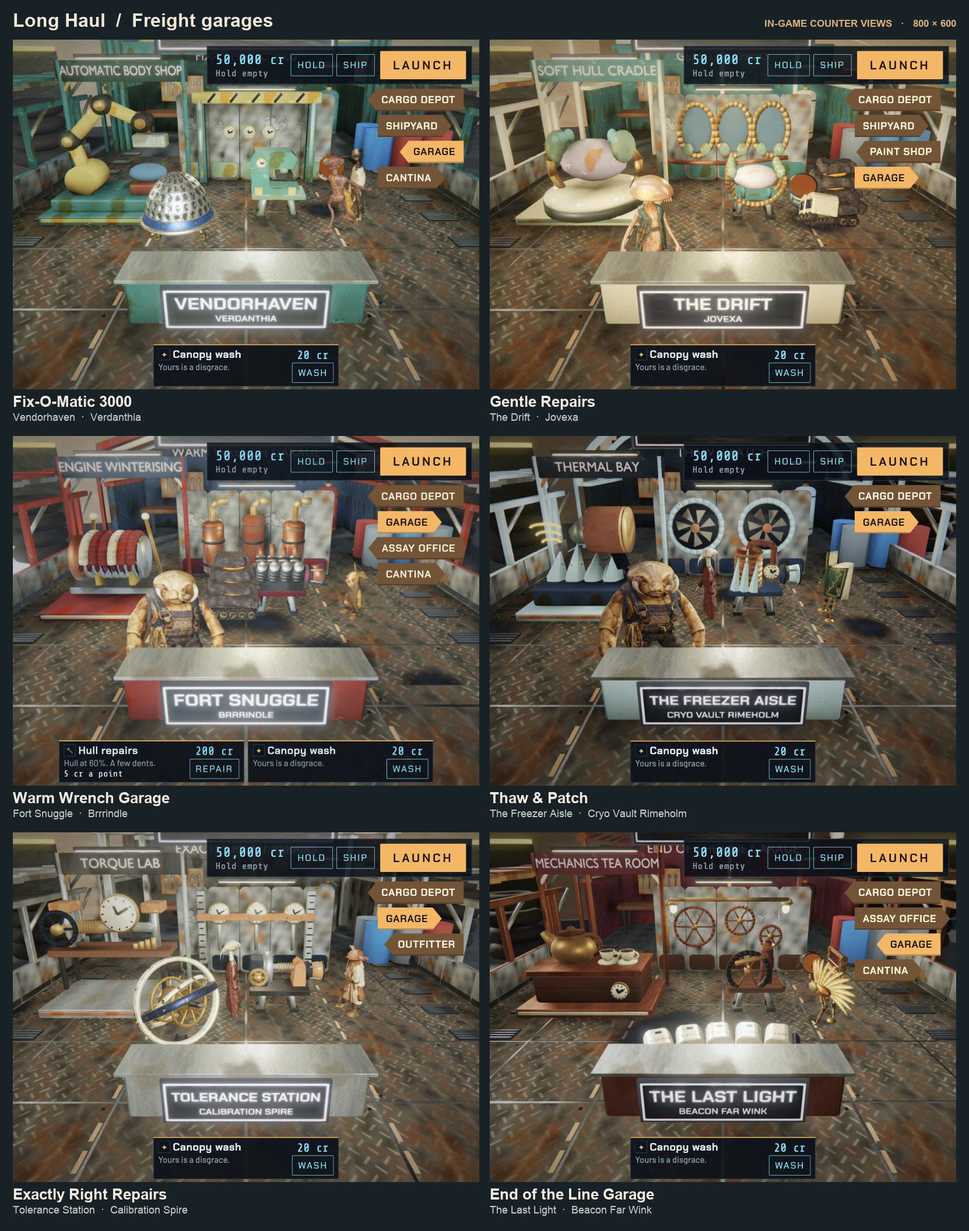
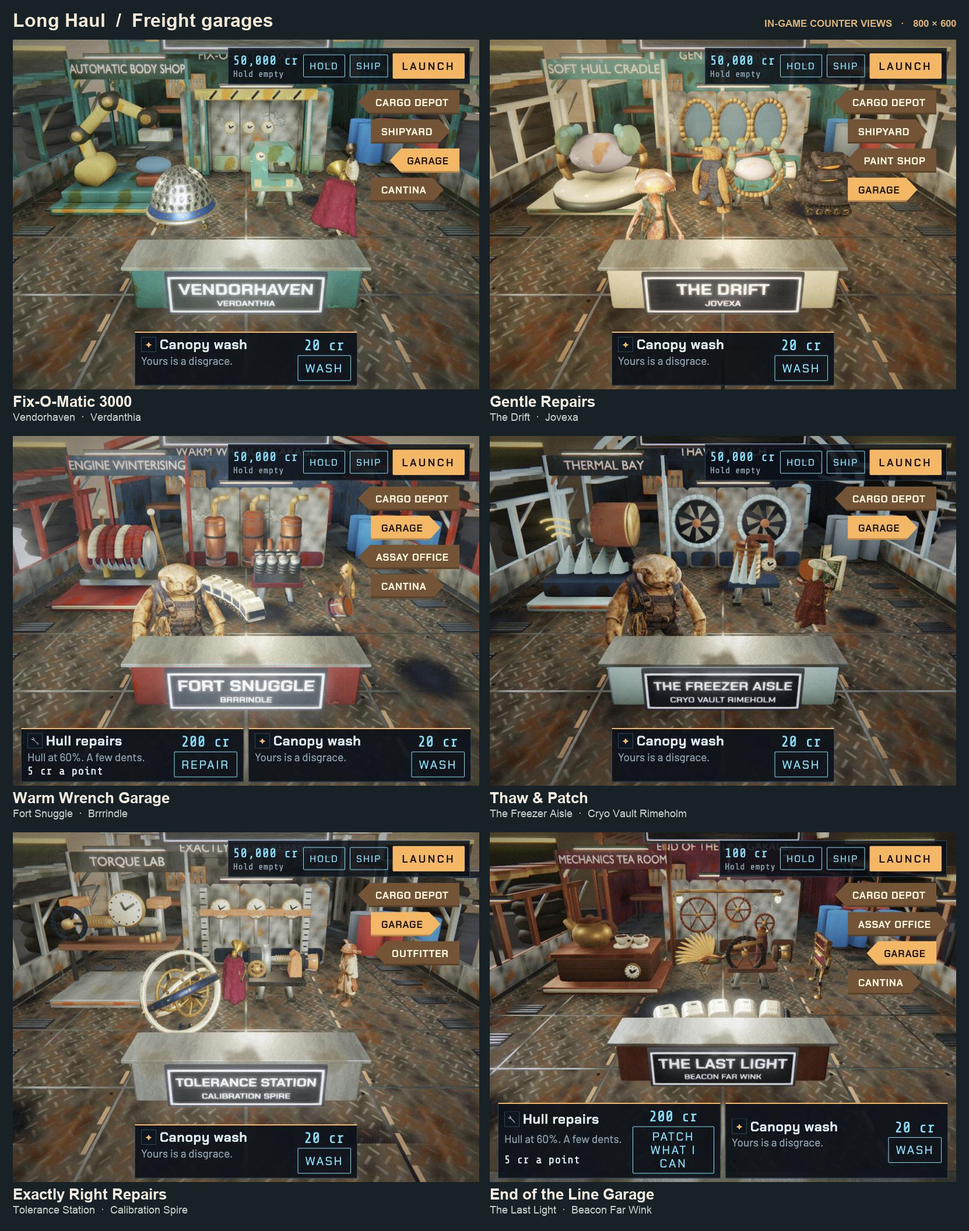
Keep garage service tickets and counter plates visible at 800 by 600

diff --git a/index.html b/index.html
@@ -280,14 +280,14 @@ body.walking #keys,body.walking #t-thr{display:none}body.walking #t-btns .tb:not
 #port .card .tag,#port .ticket .tag{font-size:15px;padding:1px 7px;margin-left:6px}
 /* Low service tickets leave the port name visible across the counter face, including at 800 × 600. */
 #port-body.garage-services{gap:8px;padding:6px 10px max(7px,env(safe-area-inset-bottom,0px));background:transparent}
-#port .garage-services .card{width:min(385px,calc(50vw - 18px));display:grid;grid-template-columns:minmax(0,1fr) auto;align-content:center;gap:3px 10px;padding:7px 10px;border-top-width:2px}
+#port .garage-services .card{box-sizing:border-box;width:min(385px,calc(50vw - 18px));display:grid;grid-template-columns:minmax(0,1fr) auto;align-content:center;gap:3px 10px;padding:7px 10px;border-top-width:2px}
 #port .garage-services .head{gap:6px}
 #port .garage-services .head canvas{width:24px;height:24px;flex-basis:24px}
 #port .garage-services h3{font-size:23px}
 #port .garage-services p,#port .garage-services .meta{grid-column:1;font-size:19px;line-height:1.13}
 #port .garage-services .right{grid-column:2;grid-row:1 / span 3;align-self:center;flex-direction:column;gap:2px;margin:0}
 #port .garage-services .pay{font-size:26px;margin:0}
-#port .garage-services .btn{font-size:20px;padding:5px 12px;min-height:44px}
+#port .garage-services .btn{font-size:20px;padding:5px 12px;min-height:44px;max-width:7em;white-space:normal;line-height:1.15}
 @media(max-width:600px){#port .garage-services .card{width:min(385px,calc(100vw - 36px))}}
 /* a job ticket, popped up over its model on the shelf */
 #port-card{position:absolute;left:0;top:0;transform:translate(-50%,-100%);width:min(460px,calc(100vw - 32px));z-index:2;background:#101b25;border:2px solid var(--amber);padding:14px 16px;display:flex;flex-direction:column;gap:8px;box-shadow:0 10px 40px rgba(0,0,0,.55)}
@@ -20019,7 +20019,16 @@ const Cine = {
   strip(){ const b=$('port-body'); return !b||$('port').hidden||b.classList.contains('empty')?0:b.offsetHeight; },
   /* the shop is always framed as if the price tags were showing, so the view doesn't zoom in when the counter is bare:
      the last real height of the strip, or a typical one until a strip has been seen at this window size */
-  frameStrip(){ const s=this.strip(), H=World.h, guess=clamp(Math.round(H*0.26),160,260); if(!this.lastStrip||this.lastStrip.H!==H) this.lastStrip={s:guess,H}; this.lastStrip.s=Math.max(this.lastStrip.s,s); return this.lastStrip.s; },
+  frameStrip(){
+    const H=World.h, W=World.w, strip=this.strip(), garage=UI.tab==='garage';
+    const key=garage?'garageFrame':'lastStrip';
+    if(!this[key]||this[key].H!==H||this[key].W!==W) this[key]={s:clamp(Math.round(H*0.26),160,260),H,W};
+    // The counter face projects below the framed region. Keep the plate clear even when the
+    // partial-repair offer wraps, and use the same framing regardless of the shop visited first.
+    const needed=garage?strip+Math.ceil((H-strip)*0.15):strip;
+    this[key].s=Math.max(this[key].s,needed);
+    return this[key].s;
+  },
   region(){ const W=World.w, H=World.h, el=$('port'); if(!el||el.hidden) return {w:W,h:H,ox:0,oy:0}; const s=this.frameStrip();
     return {w:W,h:Math.max(1,H-s),ox:0,oy:s/2}; },
   update(dt, time){

diff --git a/long-haul.html b/long-haul.html
@@ -279,14 +279,14 @@ body.walking #keys,body.walking #t-thr{display:none}body.walking #t-btns .tb:not
 #port .card .tag,#port .ticket .tag{font-size:15px;padding:1px 7px;margin-left:6px}
 /* Low service tickets leave the port name visible across the counter face, including at 800 × 600. */
 #port-body.garage-services{gap:8px;padding:6px 10px max(7px,env(safe-area-inset-bottom,0px));background:transparent}
-#port .garage-services .card{width:min(385px,calc(50vw - 18px));display:grid;grid-template-columns:minmax(0,1fr) auto;align-content:center;gap:3px 10px;padding:7px 10px;border-top-width:2px}
+#port .garage-services .card{box-sizing:border-box;width:min(385px,calc(50vw - 18px));display:grid;grid-template-columns:minmax(0,1fr) auto;align-content:center;gap:3px 10px;padding:7px 10px;border-top-width:2px}
 #port .garage-services .head{gap:6px}
 #port .garage-services .head canvas{width:24px;height:24px;flex-basis:24px}
 #port .garage-services h3{font-size:23px}
 #port .garage-services p,#port .garage-services .meta{grid-column:1;font-size:19px;line-height:1.13}
 #port .garage-services .right{grid-column:2;grid-row:1 / span 3;align-self:center;flex-direction:column;gap:2px;margin:0}
 #port .garage-services .pay{font-size:26px;margin:0}
-#port .garage-services .btn{font-size:20px;padding:5px 12px;min-height:44px}
+#port .garage-services .btn{font-size:20px;padding:5px 12px;min-height:44px;max-width:7em;white-space:normal;line-height:1.15}
 @media(max-width:600px){#port .garage-services .card{width:min(385px,calc(100vw - 36px))}}
 /* a job ticket, popped up over its model on the shelf */
 #port-card{position:absolute;left:0;top:0;transform:translate(-50%,-100%);width:min(460px,calc(100vw - 32px));z-index:2;background:#101b25;border:2px solid var(--amber);padding:14px 16px;display:flex;flex-direction:column;gap:8px;box-shadow:0 10px 40px rgba(0,0,0,.55)}
@@ -20018,7 +20018,16 @@ const Cine = {
   strip(){ const b=$('port-body'); return !b||$('port').hidden||b.classList.contains('empty')?0:b.offsetHeight; },
   /* the shop is always framed as if the price tags were showing, so the view doesn't zoom in when the counter is bare:
      the last real height of the strip, or a typical one until a strip has been seen at this window size */
-  frameStrip(){ const s=this.strip(), H=World.h, guess=clamp(Math.round(H*0.26),160,260); if(!this.lastStrip||this.lastStrip.H!==H) this.lastStrip={s:guess,H}; this.lastStrip.s=Math.max(this.lastStrip.s,s); return this.lastStrip.s; },
+  frameStrip(){
+    const H=World.h, W=World.w, strip=this.strip(), garage=UI.tab==='garage';
+    const key=garage?'garageFrame':'lastStrip';
+    if(!this[key]||this[key].H!==H||this[key].W!==W) this[key]={s:clamp(Math.round(H*0.26),160,260),H,W};
+    // The counter face projects below the framed region. Keep the plate clear even when the
+    // partial-repair offer wraps, and use the same framing regardless of the shop visited first.
+    const needed=garage?strip+Math.ceil((H-strip)*0.15):strip;
+    this[key].s=Math.max(this[key].s,needed);
+    return this[key].s;
+  },
   region(){ const W=World.w, H=World.h, el=$('port'); if(!el||el.hidden) return {w:W,h:H,ox:0,oy:0}; const s=this.frameStrip();
     return {w:W,h:Math.max(1,H-s),ox:0,oy:s/2}; },
   update(dt, time){

diff --git a/src/head.html b/src/head.html
@@ -279,14 +279,14 @@ body.walking #keys,body.walking #t-thr{display:none}body.walking #t-btns .tb:not
 #port .card .tag,#port .ticket .tag{font-size:15px;padding:1px 7px;margin-left:6px}
 /* Low service tickets leave the port name visible across the counter face, including at 800 × 600. */
 #port-body.garage-services{gap:8px;padding:6px 10px max(7px,env(safe-area-inset-bottom,0px));background:transparent}
-#port .garage-services .card{width:min(385px,calc(50vw - 18px));display:grid;grid-template-columns:minmax(0,1fr) auto;align-content:center;gap:3px 10px;padding:7px 10px;border-top-width:2px}
+#port .garage-services .card{box-sizing:border-box;width:min(385px,calc(50vw - 18px));display:grid;grid-template-columns:minmax(0,1fr) auto;align-content:center;gap:3px 10px;padding:7px 10px;border-top-width:2px}
 #port .garage-services .head{gap:6px}
 #port .garage-services .head canvas{width:24px;height:24px;flex-basis:24px}
 #port .garage-services h3{font-size:23px}
 #port .garage-services p,#port .garage-services .meta{grid-column:1;font-size:19px;line-height:1.13}
 #port .garage-services .right{grid-column:2;grid-row:1 / span 3;align-self:center;flex-direction:column;gap:2px;margin:0}
 #port .garage-services .pay{font-size:26px;margin:0}
-#port .garage-services .btn{font-size:20px;padding:5px 12px;min-height:44px}
+#port .garage-services .btn{font-size:20px;padding:5px 12px;min-height:44px;max-width:7em;white-space:normal;line-height:1.15}
 @media(max-width:600px){#port .garage-services .card{width:min(385px,calc(100vw - 36px))}}
 /* a job ticket, popped up over its model on the shelf */
 #port-card{position:absolute;left:0;top:0;transform:translate(-50%,-100%);width:min(460px,calc(100vw - 32px));z-index:2;background:#101b25;border:2px solid var(--amber);padding:14px 16px;display:flex;flex-direction:column;gap:8px;box-shadow:0 10px 40px rgba(0,0,0,.55)}

diff --git a/src/08-cine.js b/src/08-cine.js
@@ -201,7 +201,16 @@ const Cine = {
   strip(){ const b=$('port-body'); return !b||$('port').hidden||b.classList.contains('empty')?0:b.offsetHeight; },
   /* the shop is always framed as if the price tags were showing, so the view doesn't zoom in when the counter is bare:
      the last real height of the strip, or a typical one until a strip has been seen at this window size */
-  frameStrip(){ const s=this.strip(), H=World.h, guess=clamp(Math.round(H*0.26),160,260); if(!this.lastStrip||this.lastStrip.H!==H) this.lastStrip={s:guess,H}; this.lastStrip.s=Math.max(this.lastStrip.s,s); return this.lastStrip.s; },
+  frameStrip(){
+    const H=World.h, W=World.w, strip=this.strip(), garage=UI.tab==='garage';
+    const key=garage?'garageFrame':'lastStrip';
+    if(!this[key]||this[key].H!==H||this[key].W!==W) this[key]={s:clamp(Math.round(H*0.26),160,260),H,W};
+    // The counter face projects below the framed region. Keep the plate clear even when the
+    // partial-repair offer wraps, and use the same framing regardless of the shop visited first.
+    const needed=garage?strip+Math.ceil((H-strip)*0.15):strip;
+    this[key].s=Math.max(this[key].s,needed);
+    return this[key].s;
+  },
   region(){ const W=World.w, H=World.h, el=$('port'); if(!el||el.hidden) return {w:W,h:H,ox:0,oy:0}; const s=this.frameStrip();
     return {w:W,h:Math.max(1,H-s),ox:0,oy:s/2}; },
   update(dt, time){
